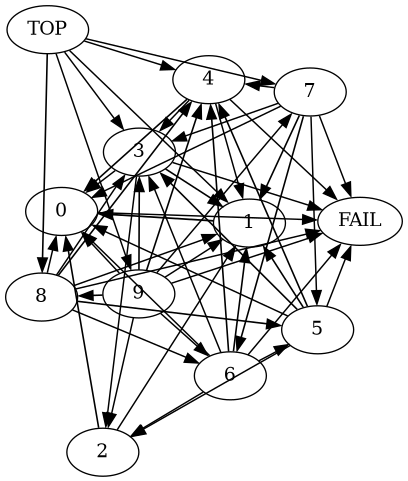
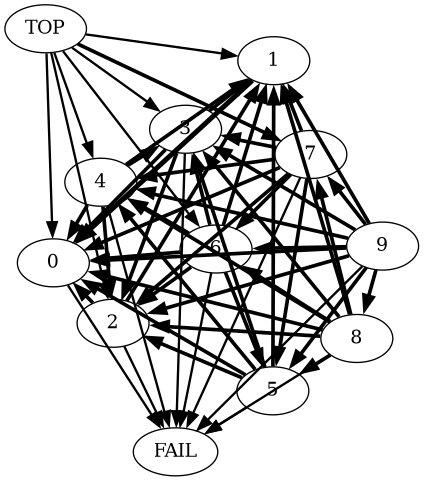
actually show edge counts

diff --git a/go_project/quiver-gviz/uprgm_quiver_dot.go b/go_project/quiver-gviz/uprgm_quiver_dot.go
@@ -12,7 +12,7 @@ type GenEdge[A comparable] struct {
 	Dst A
 }
 
-const UPRGM_QUIVER_DOT_PENWIDTH_FACTOR = 0.1
+const UPRGM_QUIVER_DOT_PENWIDTH_FACTOR = 1.0
 
 func MicroprogramQuiverDot(uprgm s.Microprogram) (g *dot.Graph) {
 	fmt.Printf(".StateTop  = %#+v\n", uprgm.StateTop)
@@ -56,7 +56,7 @@ func MicroprogramQuiverDot(uprgm s.Microprogram) (g *dot.Graph) {
 			nodes[edge.Src],
 			nodes[edge.Dst],
 		)
-		edge.Attr("penwidth", 1+(UPRGM_QUIVER_DOT_PENWIDTH_FACTOR*float64(value)))
+		edge.Attr("penwidth", 0.75+(UPRGM_QUIVER_DOT_PENWIDTH_FACTOR*float64(value)))
 	}
 	return
 }
